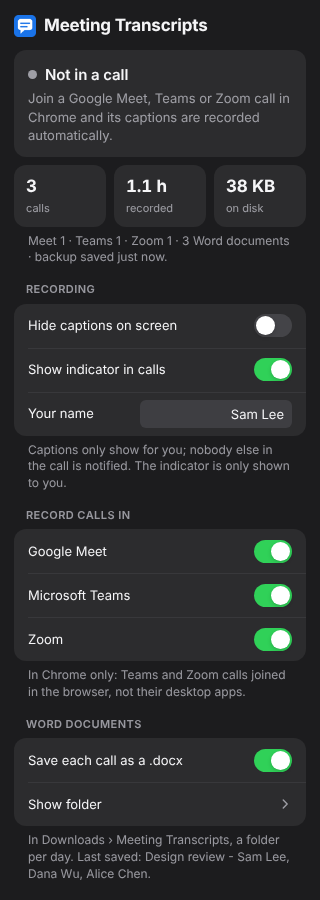
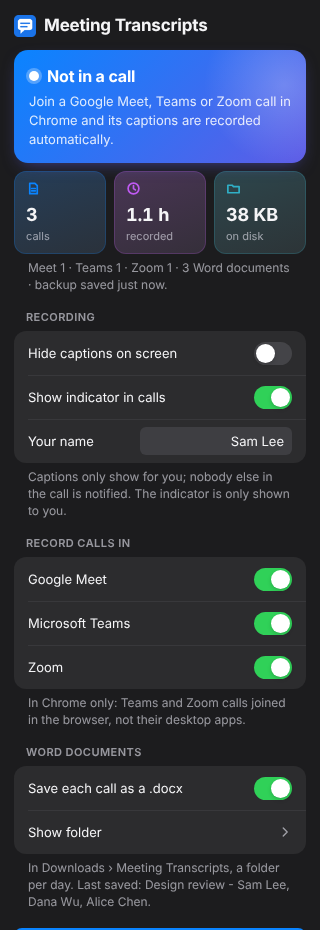
Give the popup's status card and library tiles colour (2.2.0)
The status card takes a colour from the state: blue when not in a call, red while
recording, orange when paused or captions are off, grey when the site is turned off.
The three library tiles get their own tints and icons. The in-call button now reads
"Live transcript" so it fits on one line.

diff --git a/extension/popup/popup.css b/extension/popup/popup.css
@@ -44,30 +44,55 @@ header img { width: 1.375rem; height: 1.375rem; }
 h1 { margin: 0; font-size: 1.0625rem; font-weight: 700; letter-spacing: -0.012em; }
 h2 { margin: 1rem 0.75rem 0.375rem; font-size: 0.6875rem; font-weight: 600; letter-spacing: 0.04em; text-transform: uppercase; color: var(--secondary); }
 
-/* Status */
-.hero { padding: 0.875rem 0.875rem 0.75rem; border-radius: 0.75rem; background: var(--group); }
+/* Status: a coloured card whose tint follows the state (set as data-tone by popup.js). */
+.hero {
+  --tone-a: #0a84ff; --tone-b: #5e5ce6;
+  position: relative; overflow: hidden; padding: 0.9375rem 0.9375rem 0.875rem; border-radius: 0.875rem; color: #fff;
+  background: linear-gradient(135deg, var(--tone-a), var(--tone-b));
+  box-shadow: 0 6px 18px -8px color-mix(in srgb, var(--tone-b) 70%, transparent);
+  transition: box-shadow 300ms ease;
+}
+.hero::after { /* soft highlight so the gradient reads as glass, not flat paint */
+  content: ""; position: absolute; inset: -40% -20% auto auto; width: 10rem; height: 10rem; border-radius: 50%;
+  background: radial-gradient(closest-side, rgba(255, 255, 255, 0.22), transparent); pointer-events: none;
+}
+.hero[data-tone="rec"] { --tone-a: #ff453a; --tone-b: #d6246e; }
+.hero[data-tone="warn"] { --tone-a: #ff9f0a; --tone-b: #f2600c; }
+.hero[data-tone="off"] { --tone-a: #8e8e93; --tone-b: #636366; }
+.hero > * { position: relative; z-index: 1; }
 .state-row { display: flex; align-items: center; gap: 0.5rem; }
-#state { font-size: 0.9375rem; font-weight: 600; letter-spacing: -0.005em; }
-.dot { width: 0.5625rem; height: 0.5625rem; border-radius: 50%; background: var(--secondary); flex: none; transition: background-color 200ms ease; }
-.dot.rec { background: var(--red); animation: pulse 1.6s ease-in-out infinite; }
-.dot.warn { background: var(--orange); }
-@keyframes pulse { 50% { opacity: 0.35; } }
-#detail { margin: 0.25rem 0 0; color: var(--secondary); line-height: 1.45; }
+#state { font-size: 1rem; font-weight: 700; letter-spacing: -0.01em; }
+.dot {
+  width: 0.625rem; height: 0.625rem; border-radius: 50%; background: #fff; flex: none;
+  box-shadow: 0 0 0 3px rgba(255, 255, 255, 0.28);
+}
+.dot.rec { animation: pulse 1.6s ease-in-out infinite; }
+@keyframes pulse { 50% { opacity: 0.35; box-shadow: 0 0 0 6px rgba(255, 255, 255, 0); } }
+#detail { margin: 0.3125rem 0 0; color: rgba(255, 255, 255, 0.86); line-height: 1.45; }
 #detail:empty { display: none; }
 .actions { display: flex; gap: 0.5rem; margin-top: 0.75rem; }
-.actions .btn { flex: 1; }
+.actions .btn { flex: 1; white-space: nowrap; color: #fff; background: rgba(255, 255, 255, 0.2); }
+.actions .btn.tinted { background: #fff; color: var(--tone-b); }
+.hero .link { color: #fff; text-decoration: underline; text-decoration-color: rgba(255, 255, 255, 0.5); }
 
-/* Library at a glance: three tiles under the status. */
+/* Library at a glance: three tiles under the status, each with its own tint. */
 .stats { display: grid; grid-template-columns: repeat(3, 1fr); gap: 0.5rem; margin-top: 0.5rem; }
 .stat {
+  --tint: var(--accent);
   display: flex; flex-direction: column; align-items: flex-start; gap: 0.125rem; min-width: 0; padding: 0.625rem 0.75rem;
-  border: 0; border-radius: 0.75rem; background: var(--group); color: var(--label); text-align: left; font: inherit;
-  transition: transform 100ms ease-out, background-color 150ms ease;
+  border: 0; border-radius: 0.75rem; color: var(--label); text-align: left; font: inherit;
+  background: linear-gradient(160deg, color-mix(in srgb, var(--tint) 20%, var(--group)), color-mix(in srgb, var(--tint) 6%, var(--group)));
+  box-shadow: inset 0 0 0 1px color-mix(in srgb, var(--tint) 22%, transparent);
+  transition: transform 100ms ease-out, filter 150ms ease;
 }
-.stat b { font-size: 1.0625rem; font-weight: 700; letter-spacing: -0.01em; font-variant-numeric: tabular-nums; white-space: nowrap; }
+.stat.calls { --tint: #0a84ff; }
+.stat.time { --tint: #bf5af2; }
+.stat.disk { --tint: #30b0c7; }
+.stat svg { width: 0.9375rem; height: 0.9375rem; margin-bottom: 0.25rem; color: var(--tint); stroke-width: 1.8; }
+.stat b { font-size: 1.125rem; font-weight: 700; letter-spacing: -0.01em; font-variant-numeric: tabular-nums; white-space: nowrap; }
 .stat span { font-size: 0.6875rem; color: var(--secondary); }
 button.stat { cursor: pointer; }
-button.stat:hover { background: color-mix(in srgb, var(--group), var(--label) 4%); }
+button.stat:hover { filter: brightness(1.06); }
 button.stat:active { transform: scale(0.97); }
 #statsDetail:empty { display: none; }
 

diff --git a/extension/popup/popup.html b/extension/popup/popup.html
@@ -10,20 +10,20 @@
     <h1>Meeting Transcripts</h1>
   </header>
 
-  <section id="status" class="hero">
+  <section id="status" class="hero" data-tone="idle">
     <div class="state-row"><span id="dot" class="dot"></span><strong id="state">Checking…</strong></div>
     <p id="detail"></p>
     <div class="actions" id="meetActions" hidden>
       <button id="pause" class="btn"></button>
-      <button id="viewCurrent" class="btn tinted">View live transcript</button>
+      <button id="viewCurrent" class="btn tinted">Live transcript</button>
     </div>
     <button id="diagnose" class="link small" hidden>Captions not being picked up? Copy a report</button>
   </section>
 
   <section class="stats" aria-label="Your library">
-    <button class="stat" id="statCalls" title="Open all transcripts"><b id="calls">–</b><span>calls</span></button>
-    <div class="stat" title="Total length of your recorded calls"><b id="recorded">–</b><span>recorded</span></div>
-    <button class="stat" id="statSize" title="Word documents and library.json in Downloads › Meeting Transcripts. Click to open the folder."><b id="size">–</b><span>on disk</span></button>
+    <button class="stat calls" id="statCalls" title="Open all transcripts"><svg viewBox="0 0 16 16" aria-hidden="true"><path d="M4 2.5h5.5L12 5v8.5H4z"/><path d="M6 8h4M6 10.5h4"/></svg><b id="calls">–</b><span>calls</span></button>
+    <div class="stat time" title="Total length of your recorded calls"><svg viewBox="0 0 16 16" aria-hidden="true"><circle cx="8" cy="8" r="5.75"/><path d="M8 5v3l2 1.5"/></svg><b id="recorded">–</b><span>recorded</span></div>
+    <button class="stat disk" id="statSize" title="Word documents and library.json in Downloads › Meeting Transcripts. Click to open the folder."><svg viewBox="0 0 16 16" aria-hidden="true"><path d="M2 4.5h4.5L8 6h6v6.5H2z"/></svg><b id="size">–</b><span>on disk</span></button>
   </section>
   <p class="footnote" id="statsDetail"></p>
 

diff --git a/extension/popup/popup.js b/extension/popup/popup.js
@@ -14,9 +14,15 @@ async function refresh() {
   render();
 }
 
+// The status card's colour follows the state: blue when idle, red while recording, orange when attention is needed.
+function setTone(tone) {
+  $("status").dataset.tone = tone;
+}
+
 function render() {
   const dot = $("dot"), state = $("state"), detail = $("detail");
   dot.className = "dot";
+  setTone("idle");
   $("meetActions").hidden = !current || !current.inMeeting;
   $("diagnose").hidden = !current || !current.inMeeting || current.paused || (current.captionsOn && current.count > 0);
   if (!current) {
@@ -28,6 +34,7 @@ function render() {
   }
   const where = MT.PLATFORMS[current.platform].name;
   if (current.disabled) {
+    setTone("off");
     state.textContent = "Not recording " + where;
     detail.textContent = "Turned off below, under Record calls in.";
     return;
@@ -40,12 +47,15 @@ function render() {
   $("pause").textContent = current.paused ? "Resume" : "Pause";
   $("viewCurrent").disabled = !current.meetingId;
   if (current.paused) {
+    setTone("warn");
     dot.classList.add("warn");
     state.textContent = "Paused";
   } else if (current.captionsOn) {
+    setTone("rec");
     dot.classList.add("rec");
     state.textContent = "Recording · " + MT.PLATFORMS[current.platform].short;
   } else {
+    setTone("warn");
     dot.classList.add("warn");
     state.textContent = "Captions are off";
   }

diff --git a/CHANGELOG.md b/CHANGELOG.md
@@ -3,6 +3,13 @@
 Each version here becomes a release on GitHub, with the extension zip attached, as soon as
 it's pushed to `main` with the matching `version` in `extension/manifest.json`.
 
+## 2.2.0
+
+- **A livelier popup.** The status card is now in colour and changes with what's happening:
+  blue when you're not in a call, red while recording, orange when it needs you (paused,
+  or captions are off), grey when recording is turned off for that site. The library
+  tiles get their own colours and icons too.
+
 ## 2.1.0
 
 - **Your library at a glance** in the popup: how many calls you've recorded, their total
